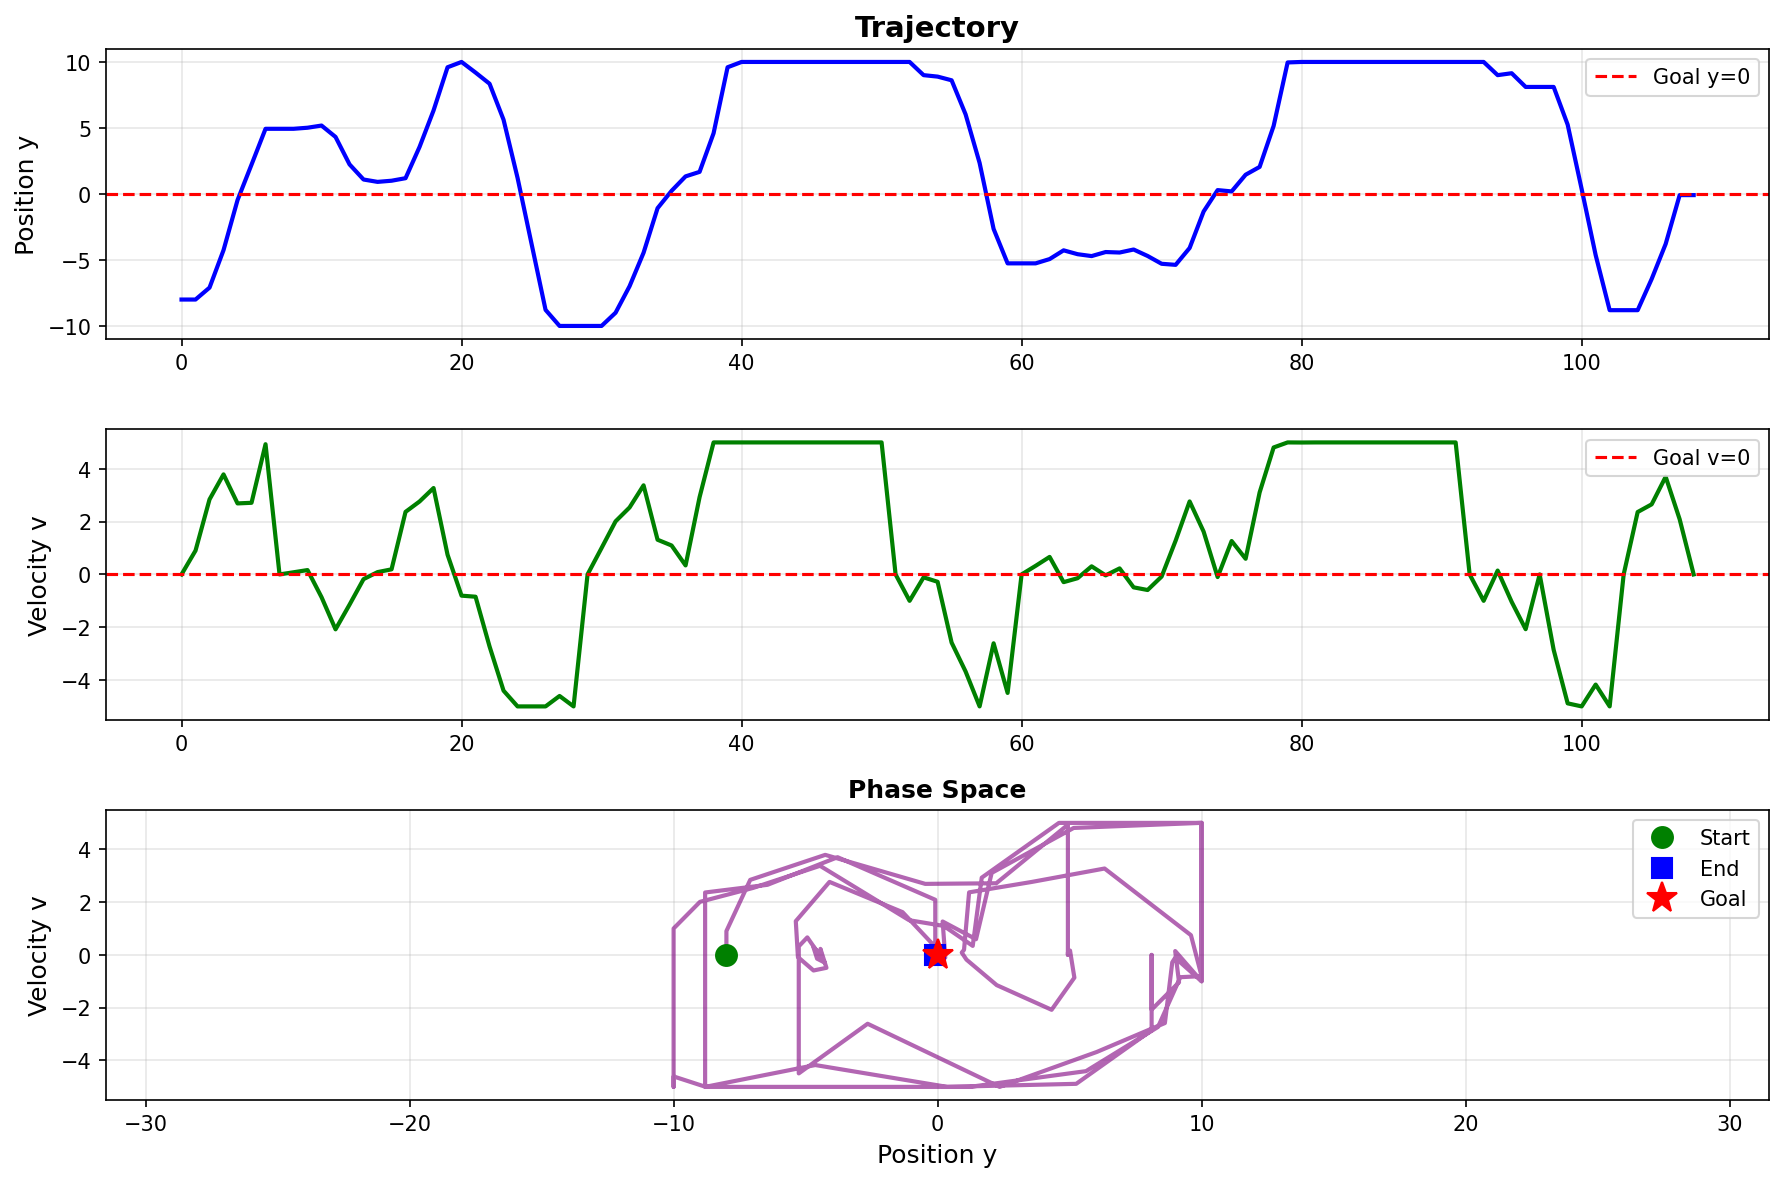
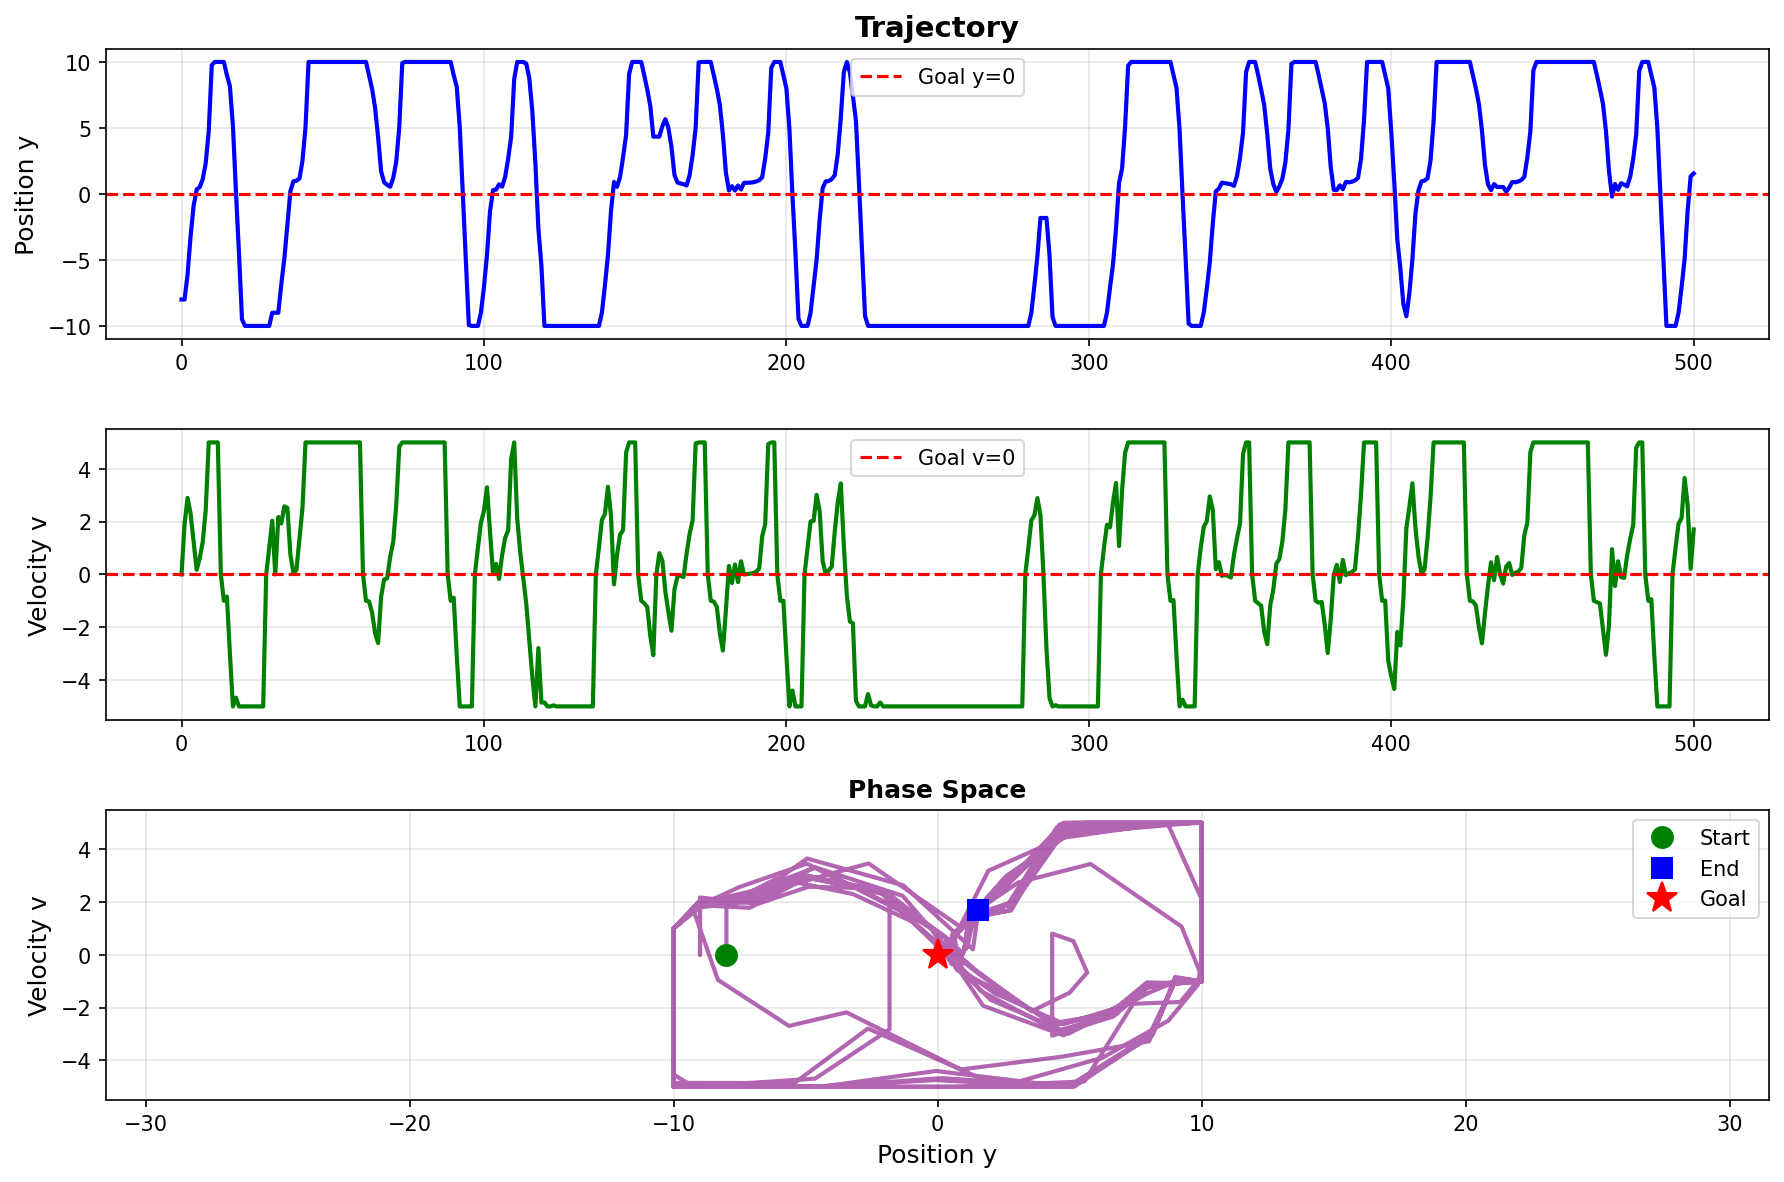
updated goal params

diff --git a/main.py b/main.py
@@ -7,12 +7,17 @@ import matplotlib.pyplot as plt
 class ContinuousParticleSystem:
     """The TRUE system with continuous state space"""
 
-    def __init__(self, m, y_max, v_max, A, p_c):
+    def __init__(
+        self, m, y_max, v_max, A, p_c, goal_y=0.0, goal_v=0.0, goal_tolerance=0.1
+    ):
         self.m = m
         self.y_max = y_max
         self.v_max = v_max
         self.A = A
         self.p_c = p_c
+        self.goal_y = goal_y
+        self.goal_v = goal_v
+        self.goal_tolerance = goal_tolerance
 
     def phi(self, y):
         """Potential field force"""
@@ -55,7 +60,14 @@ class ContinuousParticleSystem:
             y_next = np.clip(y_next, -self.y_max, self.y_max)
 
         # Reward: 1 if near goal, 0 otherwise
-        reward = 1.0 if (abs(y_next) < 0.1 and abs(v_next) < 0.1) else 0.0
+        reward = (
+            1.0
+            if (
+                abs(y_next - self.goal_y) < self.goal_tolerance
+                and abs(v_next - self.goal_v) < self.goal_tolerance
+            )
+            else 0.0
+        )
         done = reward == 1.0
 
         return (y_next, v_next), reward, done
@@ -72,16 +84,20 @@ class ContinuousParticleSystem:
 class GridParticleSystem:
     """Discretized approximation with ANALYTICAL transition computation"""
 
-    def __init__(self, continuous_system, delta_y, delta_v):
+    def __init__(self, continuous_system, delta_y, delta_v, goal_y=0.0, goal_v=0.0):
         """
         Args:
             continuous_system: ContinuousParticleSystem instance
             delta_y: position grid resolution
             delta_v: velocity grid resolution
+            goal_y: target position (default: 0.0)
+            goal_v: target velocity (default: 0.0)
         """
         self.continuous = continuous_system
         self.delta_y = delta_y
         self.delta_v = delta_v
+        self.goal_y = goal_y
+        self.goal_v = goal_v
 
         # Create grid
         self.y_grid = np.arange(
@@ -225,8 +241,11 @@ class GridParticleSystem:
     def reward(self, i, j):
         """Reward function on grid"""
         y, v = self.continuous_state(i, j)
-        # Goal: near origin (within one grid cell)
-        if abs(y) <= self.delta_y and abs(v) <= self.delta_v:
+        # Goal: reach target position and velocity (within one grid cell)
+        if (
+            abs(y - self.goal_y) <= self.delta_y
+            and abs(v - self.goal_v) <= self.delta_v
+        ):
             return 1.0
         return 0.0
 
@@ -527,17 +546,25 @@ def main():
     # ============================================================
     # 1. SYSTEM PARAMETERS (Week 1)
     # ============================================================
+    # All parameters are easily configurable for arbitrary environments/tasks:
+    # - Change m, y_max, v_max for different dynamics
+    # - Change A to adjust potential field amplitude (A=0 disables field)
+    # - Change p_c to adjust crash probability
+    # - Change goal_y, goal_v to test different target states
     params = {
         "m": 1.0,
         "y_max": 10.0,
         "v_max": 5.0,
         "A": 2.0,
         "p_c": 0.1,
+        "goal_y": 0.0,  # Target position (try 5.0, -3.0, etc.)
+        "goal_v": 0.0,  # Target velocity (try 2.0, -1.0, etc.)
+        "goal_tolerance": 0.1,  # Goal tolerance for continuous system
     }
 
     print("\nSystem Parameters (Week 1 Dynamics):")
     for key, val in params.items():
-        print(f"  {key:8s} = {val}")
+        print(f"  {key:16s} = {val}")
 
     # ============================================================
     # 2. CREATE CONTINUOUS (REAL) SYSTEM
@@ -553,12 +580,19 @@ def main():
     print("\n" + "=" * 60)
     print("Creating grid approximation...")
 
-    delta_y = 0.5  # Position resolution
-    delta_v = 0.5  # Velocity resolution
+    delta_y = 0.25  # Position resolution (smaller = finer grid, better accuracy)
+    delta_v = 0.25  # Velocity resolution (smaller = finer grid, better accuracy)
 
     print(f"  Resolution: Δy={delta_y}, Δv={delta_v}")
+    print(f"  Goal: y={params['goal_y']}, v={params['goal_v']}")
 
-    grid_sys = GridParticleSystem(continuous_sys, delta_y=delta_y, delta_v=delta_v)
+    grid_sys = GridParticleSystem(
+        continuous_sys,
+        delta_y=delta_y,
+        delta_v=delta_v,
+        goal_y=params["goal_y"],
+        goal_v=params["goal_v"],
+    )
     print("✓ Grid system created with analytical transitions")
 
     # ============================================================
@@ -629,11 +663,14 @@ def resolution_experiment():
         "v_max": 5.0,
         "A": 2.0,
         "p_c": 0.1,
+        "goal_y": 0.0,
+        "goal_v": 0.0,
+        "goal_tolerance": 0.1,
     }
 
     continuous_sys = ContinuousParticleSystem(**params)
 
-    resolutions = [1.0, 0.5, 0.25]
+    resolutions = [1.0, 0.5, 0.25, 0.2, 0.15]
     results_by_res = {}
 
     for delta in resolutions:
@@ -641,7 +678,13 @@ def resolution_experiment():
         print(f"Testing resolution Δ = {delta}")
         print(f"{'=' * 60}")
 
-        grid_sys = GridParticleSystem(continuous_sys, delta_y=delta, delta_v=delta)
+        grid_sys = GridParticleSystem(
+            continuous_sys,
+            delta_y=delta,
+            delta_v=delta,
+            goal_y=params["goal_y"],
+            goal_v=params["goal_v"],
+        )
         vi = ValueIteration(grid_sys, gamma=0.95)
         vi.solve(max_iterations=200, threshold=1e-4)
 

diff --git a/prompts/week3prompt.md b/prompts/week3prompt.md
@@ -155,3 +155,15 @@ $$
 for this problem specifically
 
 how would i code this such that we have our original system but want to implement a 'mock system' with the grid decomposition to get a policy to then plug in to the original system to see how well it solves it etc.
+
+Formulate then solve an approximate MDP problem on this continuous space dynamical numberline
+system, finding a continuous space policy for a variety of task definitions.
+Try to do so in a way that allows for arbitrary environments and tasks to be loaded, giving you a
+general approximate dynamical MDP solver that you can apply to these problems.
+You may want to consider problems in the following order:
+• Discretize the state and action spaces using grid decomposition (with the resolution being a configurable
+hyperparameter), and compute an optimal policy on the discretized problem.
+• Using a nearest-neighbor (NN), 0-step lookahead process: derive, simulate, and evaluate the resulting continuous
+space policies for varying grid resolutions.
+
+you are misunderstanding, its more about numbers not about the type, like its a sin function but can we change the amplitude easily? or its a reward function but can it support other reward states besides 0,0 at speed 0

diff --git a/README.md b/README.md
@@ -37,4 +37,4 @@ Install the 'Ruff' VSCode Extension here: https://marketplace.cursorapi.com/item
 
 ## Disclaimer
 
-AI was used to generate code in this repository. See `prompts/` folder for the full list of prompts.
+AI was used to generate code in this repository. See `prompts/` folder for the full list of prompts used for coding.
